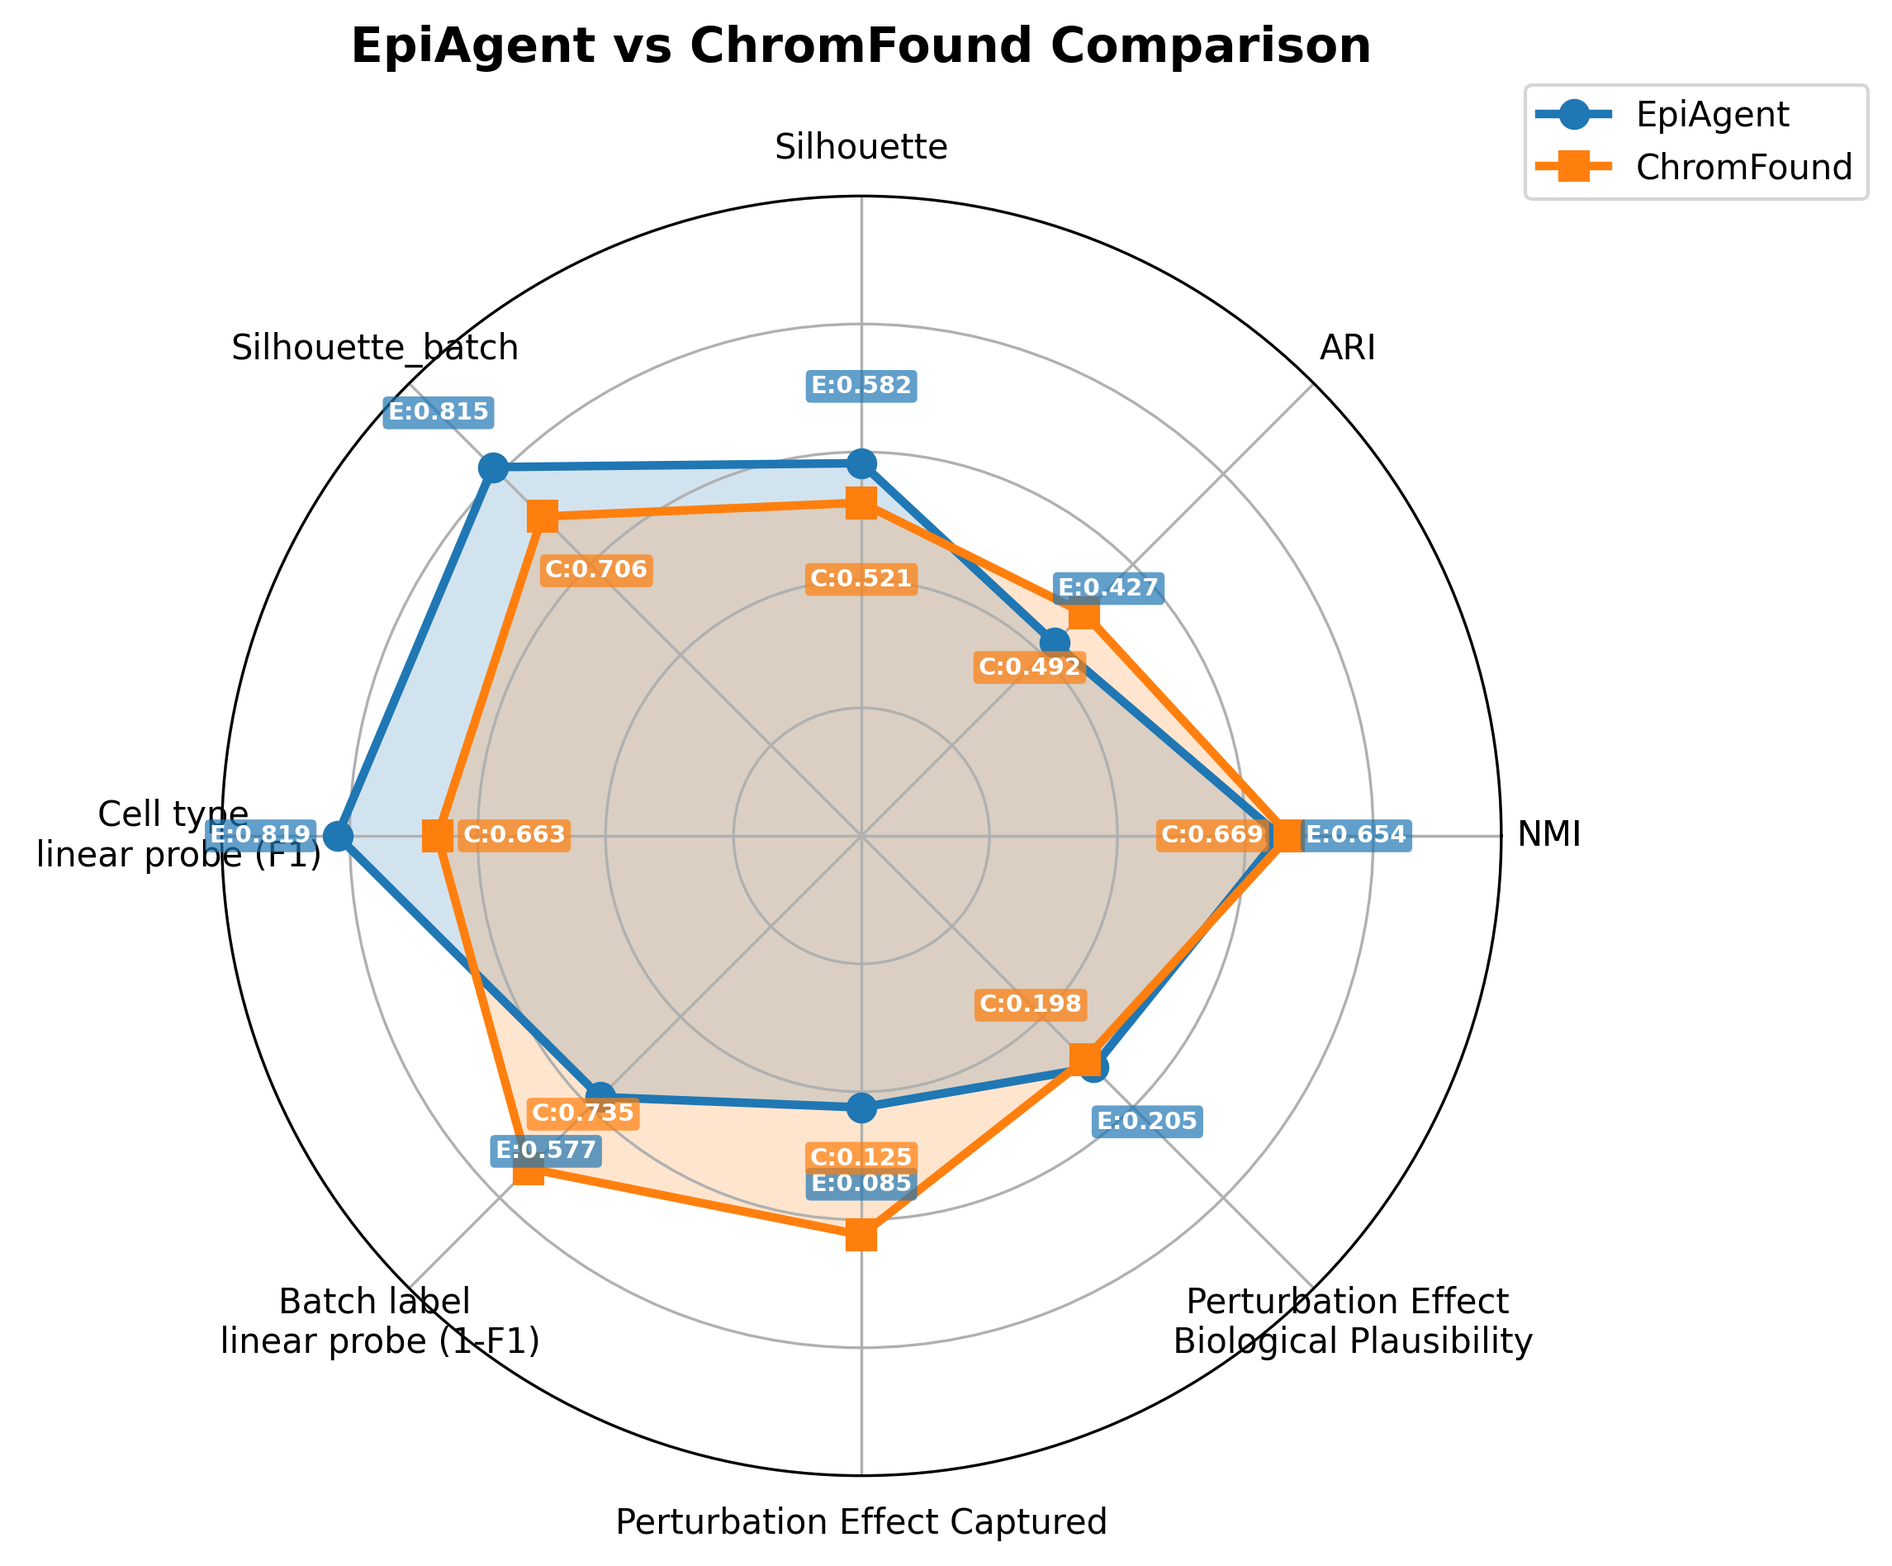
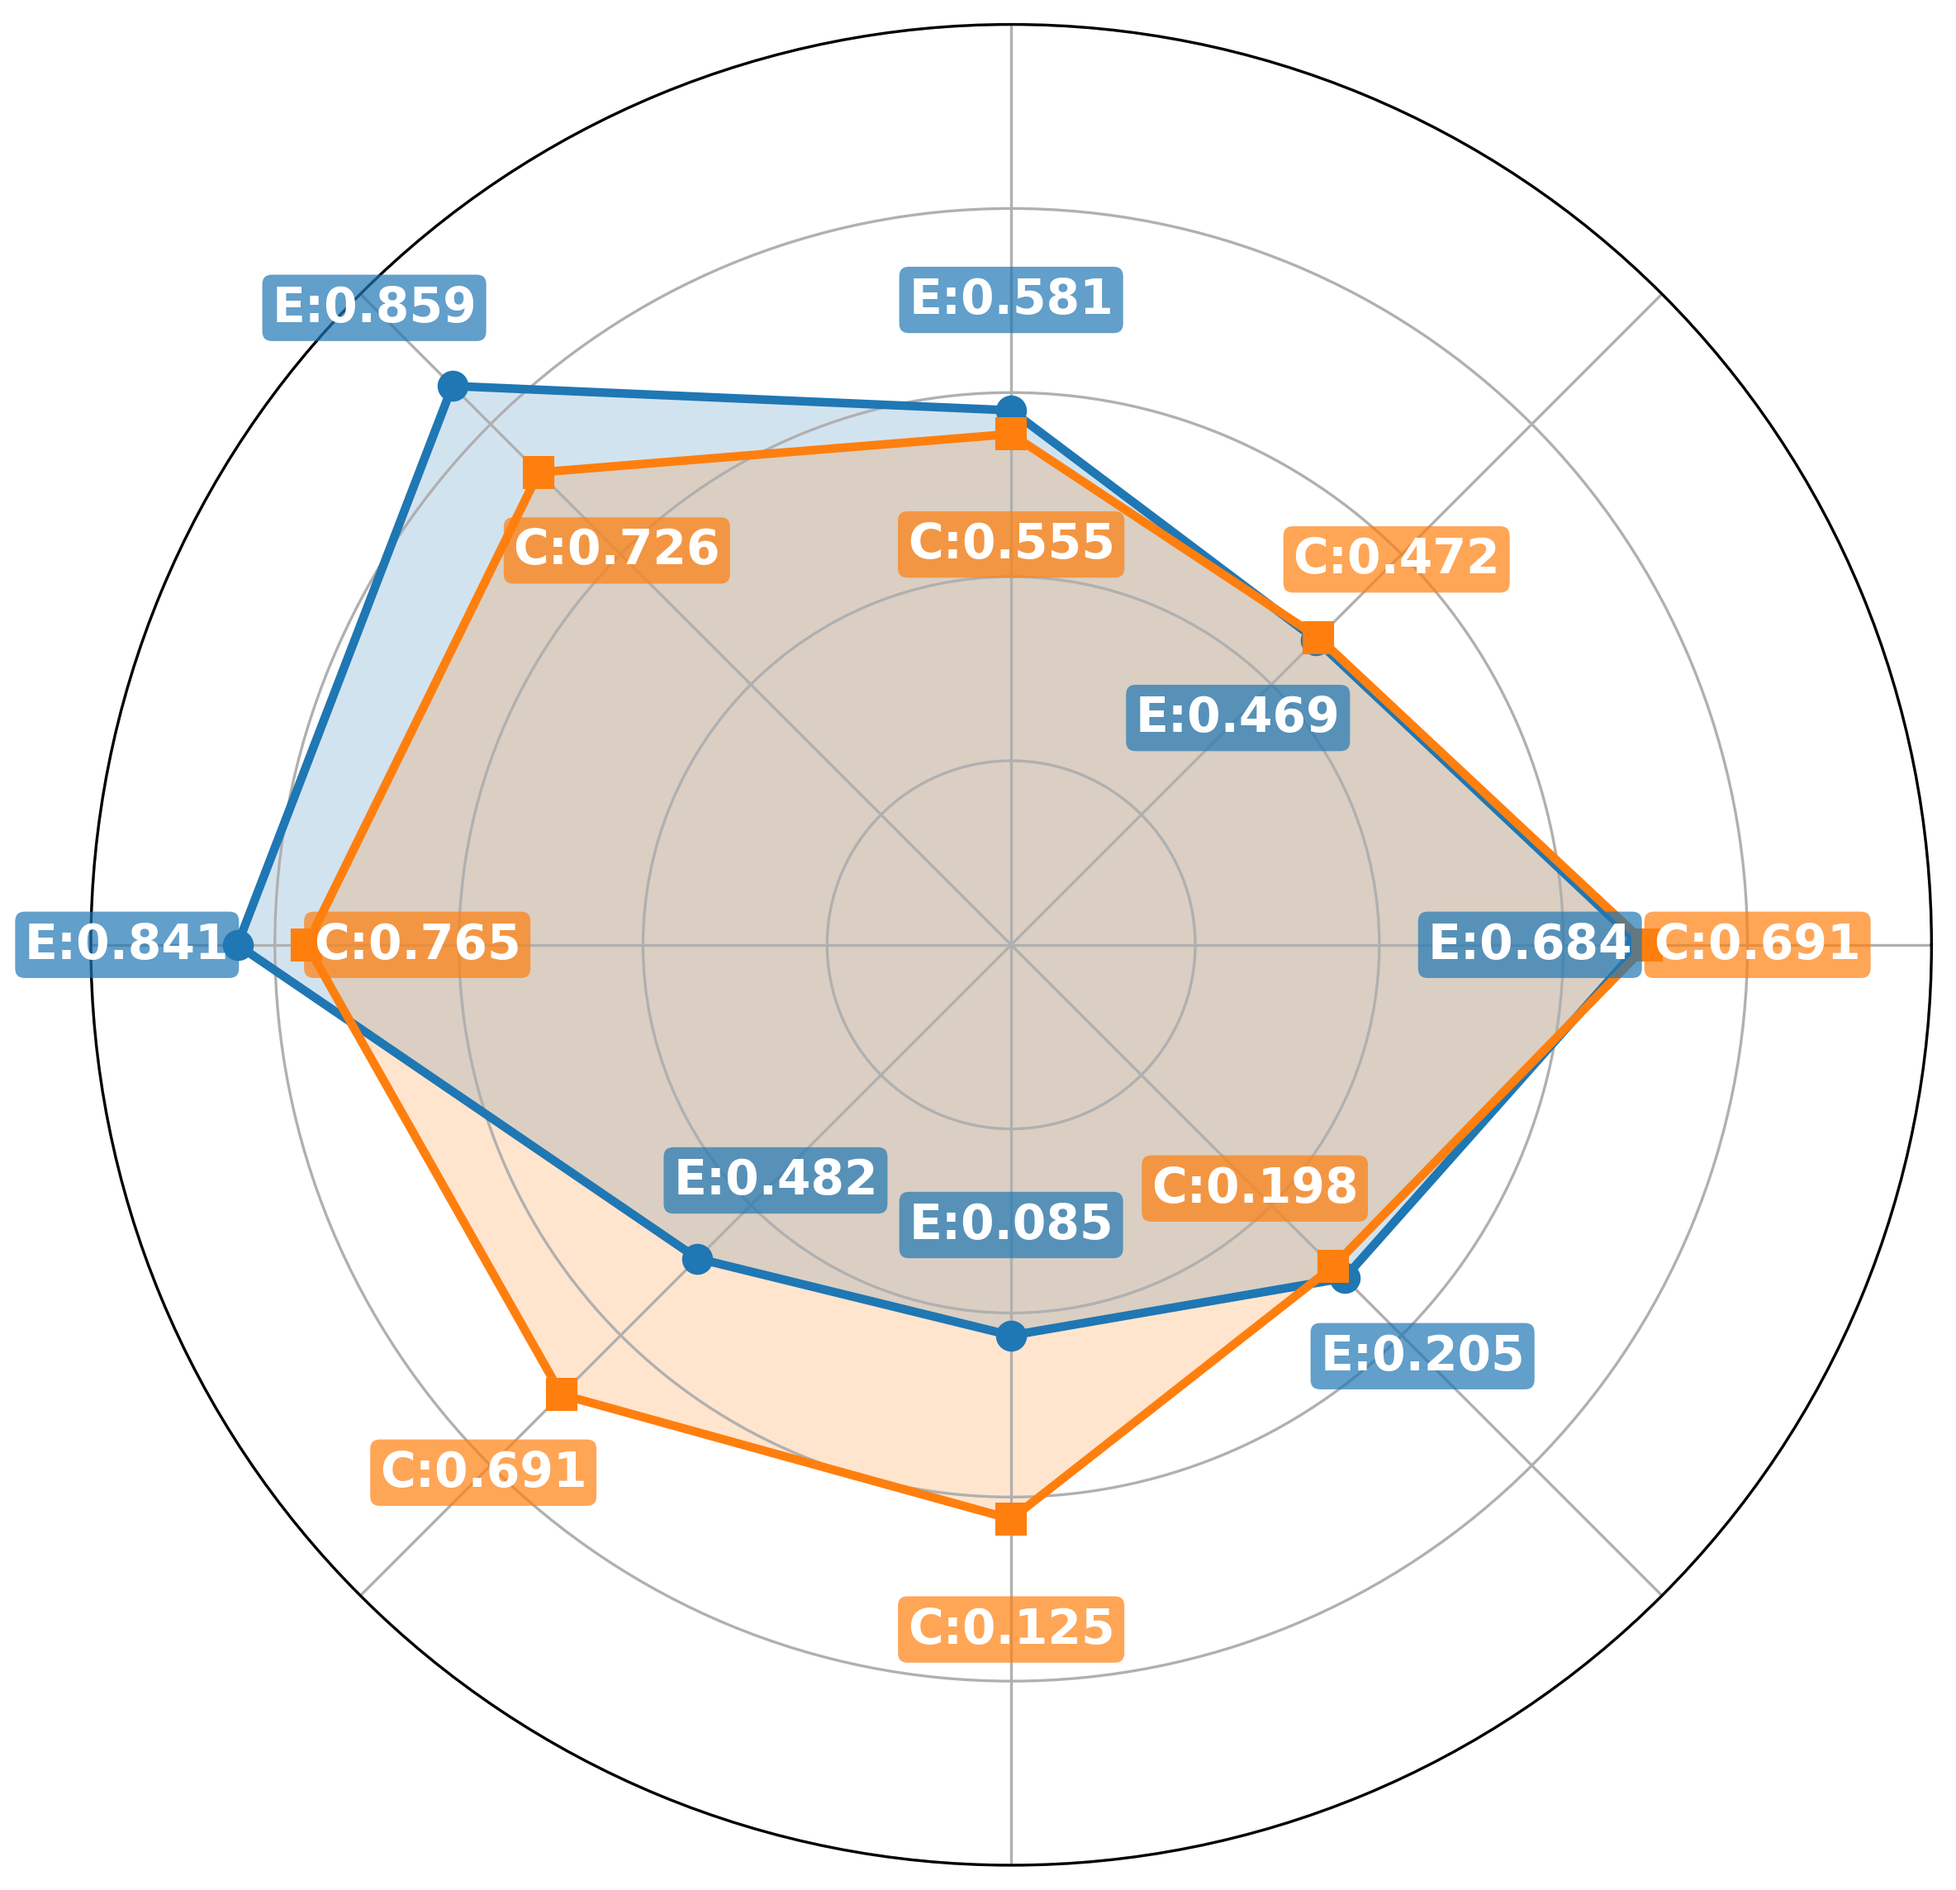
minor adjustments

diff --git a/ChromFound-Parallel/zero_shot_feature_extraction_chromfound.py b/ChromFound-Parallel/zero_shot_feature_extraction_chromfound.py
@@ -93,8 +93,8 @@ def get_args_parser():
     parser = argparse.ArgumentParser()
     parser.add_argument('--dataset_name', 
                         type=str, 
-                        default='Kanemaru2023_downsampled',
-                        choices=['Kanemaru2023_downsampled', 'Buenrostro2018-bone_marrow_tissue', 'Li2023b_downsampled'],
+                        default='Kanemaru2023_full',
+                        choices=['Kanemaru2023_full', 'Li2023b_full'],
                         help='Dataset name')
     parser.add_argument('--embeddings_path', 
                         type=str, 
@@ -102,7 +102,7 @@ def get_args_parser():
                         help='Path to ChromFound embeddings h5ad file (optional, will use default based on dataset_name if not provided)')
     parser.add_argument('--batch_key', 
                         type=str, 
-                        default=None,
+                        default="Batch (HSC)",
                         help='Batch key column name in obs (optional, will try to detect if not provided)')
     parser.add_argument('--root', 
                         type=str, 
@@ -115,19 +115,20 @@ def get_args_parser():
 parser = get_args_parser()
 args = parser.parse_args()
 
-# Map dataset names to embedding file paths
-if args.embeddings_path is None:
-    root = Path(args.root)
-    if args.dataset_name == 'Kanemaru2023_downsampled':
-        embeddings_path = root / 'Kanemaru2023_downsampled' / 'merge10' / 'embeddings_pca.h5ad'
-    elif args.dataset_name == 'Buenrostro2018-bone_marrow_tissue':
-        embeddings_path = root / 'Buenrostro2018-bone_marrow_tissue' / 'merge10' / 'embeddings.h5ad'
-    elif args.dataset_name == 'Li2023b_downsampled':
-        embeddings_path = root / 'Li2023b_downsampled' / 'merge10' / 'embeddings_pca.h5ad'
-    else:
-        raise ValueError(f"Dataset {args.dataset_name} not supported")
-else:
-    embeddings_path = Path(args.embeddings_path)
+assert args.embeddings_path is not None, "Embeddings path is required"
+embeddings_path = Path(args.embeddings_path)
+# if args.embeddings_path is None:
+#     root = Path(args.root)
+#     if args.dataset_name == 'Kanemaru2023_downsampled':
+#         embeddings_path = root / 'Kanemaru2023_downsampled' / 'merge10' / 'embeddings_pca.h5ad'
+#     elif args.dataset_name == 'Buenrostro2018-bone_marrow_tissue':
+#         embeddings_path = root / 'Buenrostro2018-bone_marrow_tissue' / 'merge10' / 'embeddings.h5ad'
+#     elif args.dataset_name == 'Li2023b_downsampled':
+#         embeddings_path = root / 'Li2023b_downsampled' / 'merge10' / 'embeddings_pca.h5ad'
+#     else:
+#         raise ValueError(f"Dataset {args.dataset_name} not supported")
+# else:
+#     embeddings_path = Path(args.embeddings_path)
 
 # Load ChromFound embeddings
 print(f"Loading ChromFound embeddings from {embeddings_path}...")
@@ -135,9 +136,11 @@ adata = sc.read_h5ad(embeddings_path)
 
 # Extract embeddings from obsm (different datasets use different keys)
 embedding_key_map = {
-    'Kanemaru2023_downsampled': 'X_pca',
-    'Buenrostro2018-bone_marrow_tissue': 'X_embedding',
-    'Li2023b_downsampled': 'X_pca'
+    # 'Kanemaru2023_downsampled': 'X_pca',
+    # 'Buenrostro2018-bone_marrow_tissue': 'X_embedding',
+    # 'Li2023b_downsampled': 'X_pca',
+    'Kanemaru2023_full': 'X_pca',
+    'Li2023b_full': 'X_pca',
 }
 
 if args.dataset_name in embedding_key_map:
@@ -234,6 +237,19 @@ output_dir.mkdir(exist_ok=True)
 plt.savefig(output_dir / 'umap_cell_types_true_labels.png', dpi=300, bbox_inches='tight')
 plt.close(fig)
 print("UMAP visualization saved")
+
+# Plot UMAP with batch labels if batch key exists
+if args.batch_key is not None:
+    fig = sc.pl.umap(adata, color=args.batch_key, return_fig=True, show=True, title='Cell embeddings (batch labels)')
+    if fig is not None:
+        axes = fig.axes if hasattr(fig, 'axes') else [ax for ax in fig.get_axes()]
+        for ax in axes:
+            legend = ax.get_legend()
+            if legend is not None:
+                legend.set_title('Batch')
+    plt.savefig(output_dir / 'umap_batch_labels.png', dpi=300, bbox_inches='tight')
+    plt.close(fig)
+    print("UMAP visualization with batch labels saved")
 
 n_true_cell_types = len(adata.obs['cell_type'].unique())
 print(f"Number of cell types: {n_true_cell_types}")

diff --git a/benchmarks/radar_plot_comparison.py b/benchmarks/radar_plot_comparison.py
@@ -10,7 +10,7 @@ from pathlib import Path
 def load_epiagent_results():
     """Load EpiAgent benchmark results"""
     # Load feature extraction benchmark results
-    feature_extraction_datasets = ["Kanemaru2023_10000", "Li2023b_10000"]
+    feature_extraction_datasets = ["Kanemaru2023", "Li2023b"]
     epiagent_root = Path("../EpiAgent/benchmarks")
     feature_extraction_result_csvs = {dataset: epiagent_root / f"zero_shot_feature_extraction_{dataset}/results.csv" for dataset in feature_extraction_datasets}
 
@@ -52,7 +52,7 @@ def load_epiagent_results():
 def load_chromfound_results():
     """Load ChromFound benchmark results"""
     # Load feature extraction benchmark results
-    feature_extraction_datasets = ["Kanemaru2023_downsampled", "Li2023b_downsampled"]
+    feature_extraction_datasets = ["Kanemaru2023_full", "Li2023b_full"]
     chromfound_root = Path("../ChromFound-Parallel")
     feature_extraction_result_csvs = {dataset: chromfound_root / f"zero_shot_feature_extraction_chromfound_{dataset}/results.csv" for dataset in feature_extraction_datasets}
 
@@ -251,35 +251,47 @@ epiagent_norm_display = epiagent_norm
 chromfound_norm_display = chromfound_norm
 
 for angle, epi_norm, epi_val, chrom_norm, chrom_val in zip(angles_display, epiagent_norm_display, epiagent_values_display, chromfound_norm_display, chromfound_values_display):
-    # Position annotations to avoid overlap
-    # EpiAgent annotation above, ChromFound below
-    epi_text_radius = epi_norm + 0.12
-    chrom_text_radius = chrom_norm - 0.12
+    # Position annotations dynamically based on which value is larger
+    # The method with the larger value gets the outer position (further from center)
+    if chrom_val > epi_val:
+        # ChromFound is larger, so it goes outer
+        chrom_text_radius = max(chrom_norm, epi_norm) + 0.12
+        epi_text_radius = min(chrom_norm, epi_norm) - 0.12
+    else:
+        # EpiAgent is larger or equal, so it goes outer
+        epi_text_radius = max(chrom_norm, epi_norm) + 0.12
+        chrom_text_radius = min(chrom_norm, epi_norm) - 0.12
     
     # Adjust if they would go out of bounds
     if epi_text_radius > 1.0:
-        epi_text_radius = epi_norm - 0.15
+        epi_text_radius = max(chrom_norm, epi_norm) - 0.15
     if chrom_text_radius < 0:
-        chrom_text_radius = chrom_norm + 0.15
+        chrom_text_radius = min(chrom_norm, epi_norm) + 0.15
+    if epi_text_radius < 0:
+        epi_text_radius = max(chrom_norm, epi_norm) - 0.15
+    if chrom_text_radius > 1.0:
+        chrom_text_radius = min(chrom_norm, epi_norm) + 0.15
     
     # EpiAgent value annotation
     ax.text(angle, epi_text_radius, f'E:{epi_val:.3f}', 
-            ha='center', va='center', fontsize=7, 
+            ha='center', va='center', fontsize=14, 
             bbox=dict(boxstyle='round,pad=0.2', facecolor='#1f77b4', alpha=0.7, edgecolor='none'),
             color='white', fontweight='bold')
     
     # ChromFound value annotation
     ax.text(angle, chrom_text_radius, f'C:{chrom_val:.3f}', 
-            ha='center', va='center', fontsize=7, 
+            ha='center', va='center', fontsize=14, 
             bbox=dict(boxstyle='round,pad=0.2', facecolor='#ff7f0e', alpha=0.7, edgecolor='none'),
             color='white', fontweight='bold')
 
-ax.set_xticks(angles)
-ax.set_xticklabels(labels_closed)
-ax.set_title('EpiAgent vs ChromFound Comparison', pad=20, fontsize=14, fontweight='bold')
+# Remove angle degree labels (keep grid lines but hide labels)
+ax.set_xticklabels([])
+# ax.set_xticks(angles)
+# ax.set_xticklabels(labels_closed)
+# ax.set_title('EpiAgent vs ChromFound Comparison', pad=20, fontsize=14, fontweight='bold')
 
 # Add legend
-ax.legend(loc='upper right', bbox_to_anchor=(1.3, 1.1), fontsize=10)
+# ax.legend(loc='upper right', bbox_to_anchor=(1.3, 1.1), fontsize=10)
 
 plt.tight_layout()
 plt.savefig("radar_plot_comparison.png", dpi=300, bbox_inches='tight')

diff --git a/EpiAgent/benchmarks/zero_shot_feature_extraction_noshuffle.py b/EpiAgent/benchmarks/zero_shot_feature_extraction_noshuffle.py
@@ -141,6 +141,20 @@ plt.savefig(output_dir / 'umap_cell_types_true_labels.png', dpi=300, bbox_inches
 plt.close(fig)
 print("UMAP visualization saved")
 
+# Plot UMAP with batch labels if batch key exists
+import ipdb; ipdb.set_trace()
+if args.batch_key is not None and args.batch_key in adata_tfidf.obs.columns:
+    fig = sc.pl.umap(adata_tfidf, color=args.batch_key, return_fig=True, show=True, title='Cell embeddings (batch labels)')
+    if fig is not None:
+        axes = fig.axes if hasattr(fig, 'axes') else [ax for ax in fig.get_axes()]
+        for ax in axes:
+            legend = ax.get_legend()
+            if legend is not None:
+                legend.set_title('Batch')
+    plt.savefig(output_dir / 'umap_batch_labels.png', dpi=300, bbox_inches='tight')
+    plt.close(fig)
+    print("UMAP visualization with batch labels saved")
+
 
 
 n_true_cell_types = len(adata_tfidf.obs['cell_type'].unique())

diff --git a/ChromFound-Parallel/inspect-h5ad.py b/ChromFound-Parallel/inspect-h5ad.py
@@ -1,0 +1,16 @@
+#%%
+import os
+import scanpy as sc
+import h5py
+from pathlib import Path
+
+#%%
+root = Path('/scratch/wkim/project-2-team-1/ChromFound-Parallel/results-copy/chromfound')
+# adata_full = sc.read_h5ad(root / 'Kanemaru2023_full' / 'merge10' / 'Kanemaru2023_full_preprocessed_merge10.h5ad')
+adata_full = sc.read_h5ad(root / 'Kanemaru2023_full' / 'merge10' / 'embeddings_pca.h5ad')
+adata_down = sc.read_h5ad(root / 'Kanemaru2023_downsampled' / 'merge10' / 'embeddings_pca.h5ad')
+# %%
+adata_full.obsm['X_pca']
+#%%
+adata_down.obsm.keys()
+# %%
